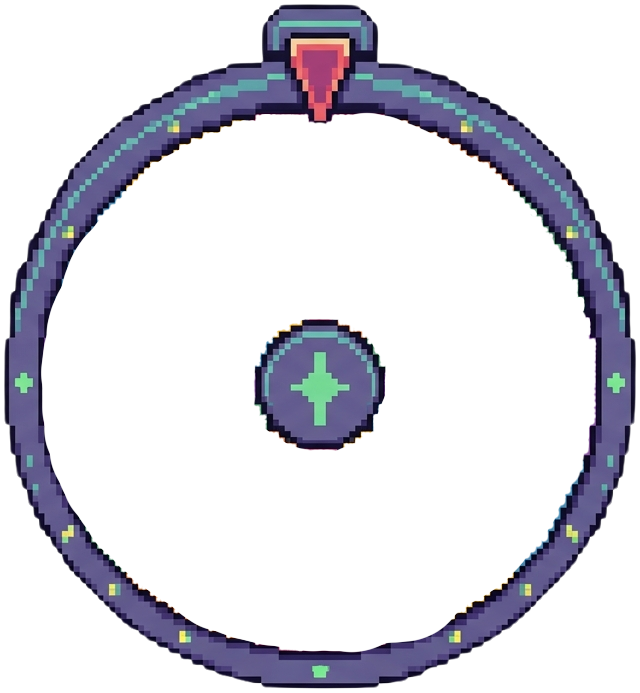
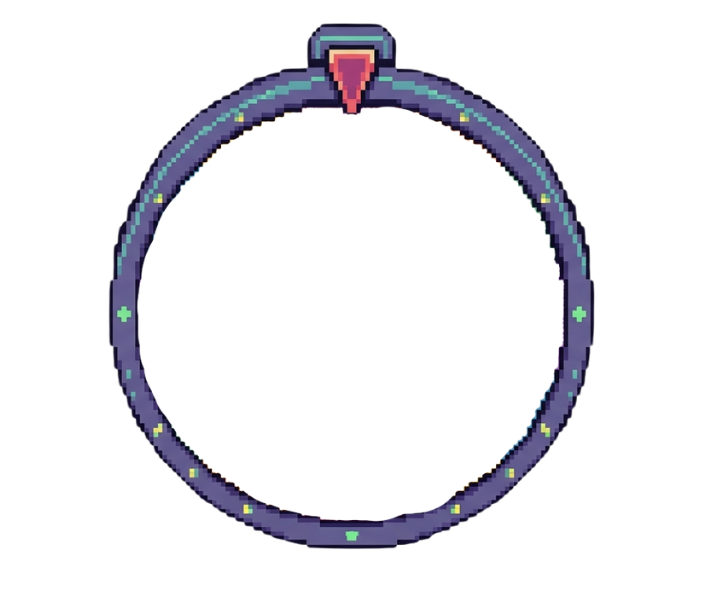
Bake the wheel's hub into the rotating disc, fixing mobile misalignment
The static frame previously carried its own center hub as a separate
element from the rotating palette disc - two independent static
boundaries (outer rim AND hub) both had to align with the rotating disc
at once, and any small sub-pixel scaling error showed up as a sliver of
whatever sat behind the mismatch. Several width-conditional CSS/JS
patches attempted to paper over this without touching the root cause.

New assets (user-provided): palette.png now includes the hub baked in
(spins with the disc, forced to a true circular crop - the old art had
up to ~17px of radius variation depending on angle, which no amount of
rotation-origin precision could fix since the shape itself wasn't
round). frame.png now has no hub, just the outer rim/pointer.

drawPixelWheel.ts rotates around the hub's own measured center (not the
disc's outer-edge center - a few px of error is far more visible on the
~46px hub than the ~198px disc). .pixel-wheel-canvas is bled 130% past
its wrap (a canvas hard-clips its own CSS box regardless of how
oversized the drawing inside it is) with the draw scale explicitly
decoupled from that CSS size, so widening the clipping margin never
changes the disc's on-screen size. .pixel-wheel-frame is repositioned
from a fresh measurement of the ring's inner hole center (not its outer
silhouette - those aren't the same point on art with uneven border
thickness), sized to the same native-to-CSS scale as the disc.
[…]

diff --git a/frontend/src/lib/drawPixelWheel.ts b/frontend/src/lib/drawPixelWheel.ts
@@ -1,9 +1,21 @@
 // Wheel of Repeg's new pixel-art wheel: a single fixed prize layout (not
 // derived from real entrants/tickets), so unlike drawWheel.ts this doesn't
 // take `arcs` - only the palette disc image is drawn here, rotated. The
-// static rim/pegs/hub/pointer live in a separate frame.png layered on top
-// by PixelWheelCanvas (not part of this canvas at all), matching how a real
+// static rim/pegs/pointer live in a separate frame.png layered on top by
+// PixelWheelCanvas (not part of this canvas at all), matching how a real
 // prize wheel's fixed frame doesn't spin with the disc underneath it.
+//
+// The center hub is baked into palette.png (spins with the disc), not into
+// frame.png - an earlier version had the hub as part of the static frame,
+// which meant TWO independent static elements (the outer rim AND the hub)
+// each had to separately align with the rotating disc. Any small alignment
+// error - and there was one, visible only on small/mobile-rendered cards,
+// most likely sub-pixel rounding from scaling two independent raster
+// layers down - showed up as a sliver of whatever sat behind the mismatch.
+// Baking the hub into the disc collapses that to a single boundary (disc
+// vs. outer rim only), which is what actually lets OVERSIZE below give
+// real forgiveness instead of just trading a gap at the rim for a gap
+// around the hub.
 let paletteImg: HTMLImageElement | null = null;
 let paletteLoaded = false;
 const paletteWaiters: Array<() => void> = [];
@@ -31,55 +43,72 @@ function getPaletteImage(onLoad?: () => void): HTMLImageElement | null {
 // Second param matches drawWheel's (ctx, rotation, arcs, size) shape so it
 // can be passed as a drop-in `draw` override to useWheelSpin - arcs is
 // intentionally unused, since this wheel's layout never depends on them.
-export function drawPixelWheel(ctx: CanvasRenderingContext2D, rotation: number, _arcs?: unknown, size = 340) {
-  const cx = size / 2;
-  // Below .wheel-cabinet's own row->single-column breakpoint (see wheel.css)
-  // a sliver of the booth background's own painted wheel peeks out above
-  // the disc - not visible once the layout is wide enough for the row
-  // version. Gated on window.innerWidth against that same 980px breakpoint,
-  // not on the canvas's own rendered width - the wheel's %-of-%-of-%
-  // container chain (see .wheel-booth-wheel) lands its rendered width in
-  // roughly the same ~150-270px range in both layouts, with no width gap
-  // clean enough to threshold on directly (confirmed: that mis-fired at
-  // desktop sizes too).
-  //
-  // A flat fraction of `size` (the fixed 340px buffer), not a target
-  // screen-px converted through the canvas's measured clientWidth - the
-  // clientWidth version overshot in Responsively App's iPhone 12/iPad
-  // presets (both still narrower than 981px) while looking correct on a
-  // real iPhone at the same logical width, pointing at clientWidth being
-  // read before layout had fully settled in one of those environments and
-  // not the other. Reading `size` instead of the DOM removes that timing
-  // dependency entirely - it's a compile-time constant, never wrong to
-  // measure early.
-  //
-  // Calibrated against the real iPhone and a real desktop browser, not
-  // Responsively App - a real iPhone and Responsively's "iPhone 12 Pro"
-  // preset (an emulated viewport inside Chromium on the Mac, not real
-  // WebKit) share the same 390px logical width but needed different
-  // amounts of nudge to look right, which a pure function of width can
-  // never resolve (same input, two different desired outputs). Emulators
-  // are an approximation; real devices are what players actually use, so
-  // this is tuned for those and may look slightly off in a simulator.
-  const isMobileLayout = window.innerWidth < 981;
-  const MOBILE_NUDGE_FRACTION = 0.045;
-  const cy = size / 2 + (isMobileLayout ? size * MOBILE_NUDGE_FRACTION : 0);
+// palette.png is a 396x396 circular crop (forced to a true circle by the
+// crop itself, not just eyeballed round) - an earlier, uncropped version of
+// this art had up to ~17px of radius variation depending on angle (a real
+// roundness imperfection, confirmed with two independent circle fits, not
+// a measurement error), which no amount of rotation-origin precision could
+// fix since the shape itself wasn't a circle. This crop is what actually
+// fixes that: measured boundary-to-center distance now only varies
+// ~194-198px (see the file's own history for the old numbers if this ever
+// needs comparing again).
+//
+// The rotation origin is the HUB's own center, not the disc's outer-edge
+// center (199.90,196.21 vs. 197.50,197.38) - a few px of rotation-origin
+// error is a small fraction of the disc's ~198px radius, barely visible,
+// but the same few px is a large fraction of the hub's own ~46px radius -
+// wobble shows up there first and worst. Re-measure both centers (isolate
+// the hub by its own teal-ring color/dark outline, not just alpha - the
+// hub sits inside a solid disc now, alpha alone can't separate it from
+// the pie slices around it) if palette.png is ever replaced.
+const HUB_NATIVE_CX = 199.9;
+const HUB_NATIVE_CY = 196.21;
+const DISC_NATIVE_R = 197.85;
 
+export function drawPixelWheel(ctx: CanvasRenderingContext2D, rotation: number, _arcs?: unknown, size = 340) {
   ctx.clearRect(0, 0, size, size);
   ctx.imageSmoothingEnabled = false;
 
   const img = getPaletteImage(() => drawPixelWheel(ctx, rotation, _arcs, size));
   if (!img) return;
 
-  // Drawn a couple percent oversized so its edge sits under the static
-  // frame's rim - hides the palette's own (hand-cut, not pixel-perfect)
-  // outer edge instead of letting a sliver of it peek out past the border.
-  const OVERSIZE = 1.02;
-  const s = size * OVERSIZE;
+  // Oversized so the disc's edge sits comfortably under the static frame's
+  // rim (see PixelWheelCanvas/.pixel-wheel-frame) instead of exactly
+  // matching it - real forgiveness now that the hub travels with the disc
+  // (see the file-level comment above), not just trading a gap at the rim
+  // for one at the hub the way a bigger OVERSIZE used to. OVERSIZE=1.06
+  // fixes the disc's on-screen radius at 53% (OVERSIZE*50) of
+  // .pixel-wheel-wrap's own width - deliberately independent of
+  // .pixel-wheel-canvas's own CSS size (130% of the wrap, for clipping
+  // clearance - see that rule's comment), via CANVAS_CSS_PERCENT below.
+  // Changing the canvas's own bleed for more/less clipping margin must NOT
+  // change how big the disc looks - the two were coupled once (bigger
+  // canvas box, same scale, same fixed internal buffer -> bigger apparent
+  // disc) and that's what actually needs fixing here, not the disc's own
+  // target size.
+  const OVERSIZE = 1.06;
+  // Keep in sync with .pixel-wheel-canvas's width/height in wheel.css.
+  const CANVAS_CSS_PERCENT = 130;
+  // Maps native palette.png pixels to canvas-buffer pixels: the disc's
+  // measured native radius ends up at OVERSIZE*50% of the wrap's width,
+  // expressed in canvas-buffer units via the canvas's own CANVAS_CSS_PERCENT
+  // CSS size (not 100%), so resizing that CSS bleed alone never changes the
+  // disc's own on-screen size.
+  const scale = (size * OVERSIZE * 50) / (CANVAS_CSS_PERCENT * DISC_NATIVE_R);
 
   ctx.save();
-  ctx.translate(cx, cy);
+  ctx.translate(size / 2, size / 2);
   ctx.rotate(rotation);
-  ctx.drawImage(img, -s / 2, -s / 2, s, s);
+  // Positioned so the hub's own measured center (not the image's corner,
+  // and not the disc's own outer-edge center - see above) lands on the
+  // rotation origin - drawImage's (dx,dy) is its top-left corner, so that
+  // corner sits `center * scale` up-and-left of center.
+  ctx.drawImage(
+    img,
+    -HUB_NATIVE_CX * scale,
+    -HUB_NATIVE_CY * scale,
+    img.naturalWidth * scale,
+    img.naturalHeight * scale
+  );
   ctx.restore();
 }

diff --git a/frontend/src/styles/wheel.css b/frontend/src/styles/wheel.css
@@ -789,20 +789,54 @@
     width: 100%;
     aspect-ratio: 1 / 1;
   }
+  /* Bled 30% past .pixel-wheel-wrap (centered, same technique as
+     .pixel-wheel-frame below) instead of the plain 100%/100% this used to
+     be - a canvas element hard-clips anything drawn outside its own CSS
+     box, so with the disc drawn oversized (see drawPixelWheel.ts) to reach
+     the frame's ring, a canvas sized too close to the disc's own edge
+     still clipped it at 9/3 o'clock. drawPixelWheel.ts's CANVAS_CSS_PERCENT
+     compensates the draw scale for this box size, so widening this margin
+     on its own does NOT make the disc look any bigger - keep both in sync
+     if this value changes. */
   .pixel-wheel-canvas {
     display: block;
-    position: relative;
-    top: 5%;
-    width: 100%;
-    height: 100%;
+    position: absolute;
+    left: -15%;
+    top: -15%;
+    width: 130%;
+    height: 130%;
     image-rendering: pixelated;
   }
+  /* frame.png (703x590, hub-free - see drawPixelWheel.ts for why) isn't
+     square, and what matters for centering is the ring's INNER hole (where
+     the disc shows through), not the outer silhouette of the ring shape -
+     those two centers aren't the same point, since the ring's border isn't
+     perfectly even thickness all the way around (thicker near the top,
+     where it connects to the pointer). Measured via a horizontal scan
+     from the image's own center outward on each row to find the hole's
+     edges specifically, then fit: hole center (349.9, 313.8), radius
+     211.9, both in native px. left/top/width/height below place that
+     measured hole center exactly on .pixel-wheel-wrap's own center (where
+     the canvas disc is drawn) and scale the whole frame image to the same
+     real-world scale the disc uses (both images share drawPixelWheel's
+     OVERSIZE-derived scale, since the artist drew them in the same native
+     coordinate space, and are NOT re-tied to .pixel-wheel-canvas's own
+     110% bleed above - see that constant's own comment in
+     drawPixelWheel.ts for why) - re-derive all 4 numbers together if
+     either image changes, and re-measure the HOLE specifically, not the
+     ring's outer edge, if this ever needs recalibrating again. */
+  /* ~7% smaller than the disc-matched scale above (188.319/158.049): first
+     dropped 10% (169.487/142.244), which left too little of the ring
+     showing and cut into some of the disc's own art at the rim, then
+     nudged back up 1% three times - same hole-center fraction re-applied
+     each time so the hole stays centered on the wrap regardless of the
+     overall scale. */
   .pixel-wheel-frame {
     position: absolute;
-    left: -0.6%;
-    top: -5.9%;
-    width: 101.2%;
-    height: 109.8%;
+    left: -36.914%;
+    top: -27.947%;
+    width: 174.623%;
+    height: 146.554%;
     image-rendering: pixelated;
     pointer-events: none;
     z-index: 2;
